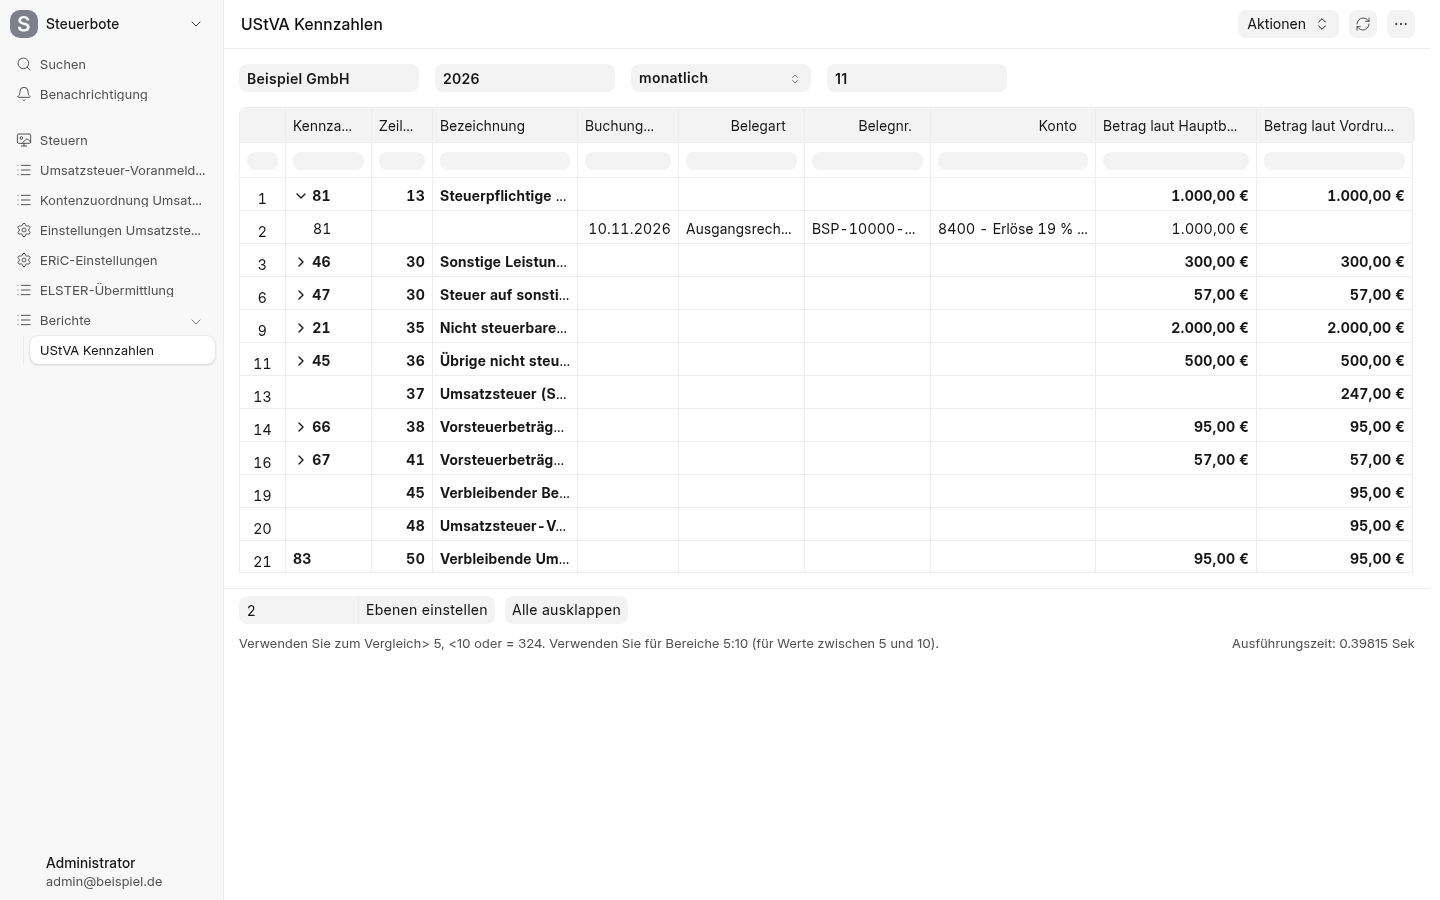
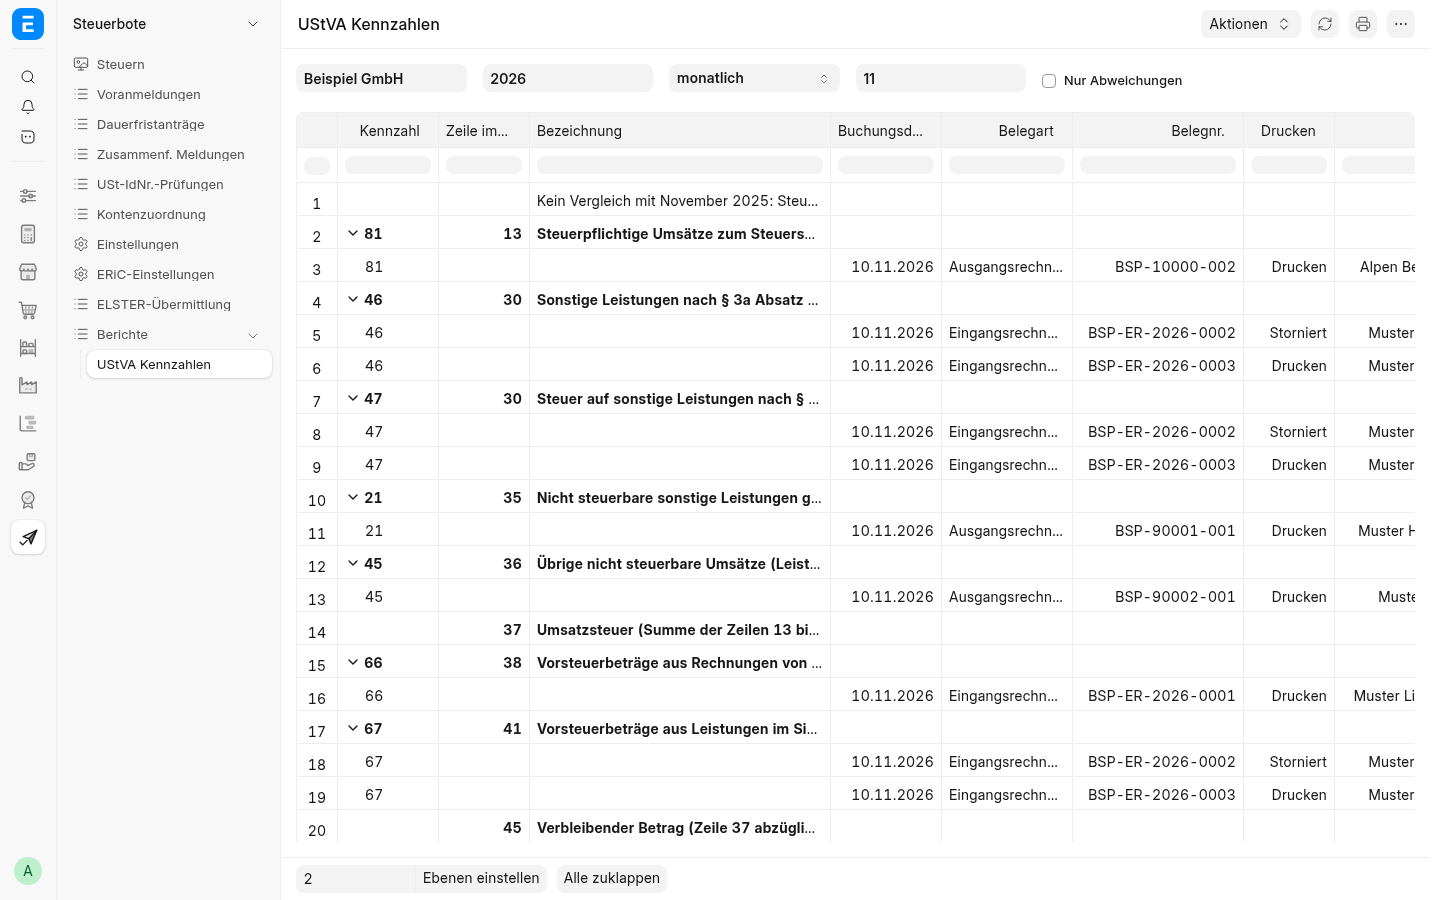
refresh the README screenshots for version 0.2.0 and show the stage 2 documents

diff --git a/README.md b/README.md
@@ -19,27 +19,37 @@ Steuermeldungen aus ERPNext an ELSTER. Zuerst die Umsatzsteuer-Voranmeldung, dan
 
 ## Einblick
 
-Die Bilder stammen aus einer Testumgebung. Firma, Anschrift, Steuernummern und Geschäftspartner sind Beispielwerte. Ein Klick auf ein Bild öffnet es in voller Größe.
+Die Bilder zeigen Steuerbote 0.2.0 in einer Testumgebung mit ERPNext 16. Firma, Anschrift, Steuernummern, USt-IdNrn., Belegnummern und Geschäftspartner sind Beispielwerte. Ein Klick auf ein Bild öffnet es in voller Größe.
 
 <table>
   <tr>
     <td align="center" valign="top">
-      <a href="docs/bilder/workspace-steuern.png"><img src="docs/bilder/workspace-steuern.png" width="280" alt="Arbeitsbereich Steuern mit offenen Voranmeldungen, Bericht und Einrichtung"></a><br>
+      <a href="docs/bilder/workspace-steuern.png"><img src="docs/bilder/workspace-steuern.png" width="280" alt="ERPNext mit „Steuern“ in der Leiste links und dem Arbeitsbereich Steuern mit Voranmeldungen, Dauerfristanträgen, Zusammenfassenden Meldungen, USt-IdNr.-Prüfungen und Einrichtung"></a><br>
       Arbeitsbereich Steuern
     </td>
     <td align="center" valign="top">
-      <a href="docs/bilder/bericht-kennzahlen.png"><img src="docs/bilder/bericht-kennzahlen.png" width="280" alt="Bericht UStVA Kennzahlen mit aufgeklappter Kennzahl 81 und dem Beleg dahinter"></a><br>
-      Bericht mit Drill-down
+      <a href="docs/bilder/voranmeldung.png"><img src="docs/bilder/voranmeldung.png" width="280" alt="Umsatzsteuer-Voranmeldung mit Hinweisen zu Rechnungen und Vorperiode und dem Vorperiodenvergleich der Kennzahlen"></a><br>
+      Voranmeldung mit Hinweisen und Vorperiodenvergleich
     </td>
   </tr>
   <tr>
     <td align="center" valign="top">
-      <a href="docs/bilder/voranmeldung.png"><img src="docs/bilder/voranmeldung.png" width="280" alt="Umsatzsteuer-Voranmeldung mit Kennzahlen, Summen und Verprobung"></a><br>
-      Voranmeldung mit Verprobung
+      <a href="docs/bilder/bericht-kennzahlen.png"><img src="docs/bilder/bericht-kennzahlen.png" width="280" alt="Bericht UStVA Kennzahlen mit den Belegen hinter jeder Kennzahl, eine stornierte Eingangsrechnung darunter"></a><br>
+      Bericht mit den Belegen je Kennzahl
     </td>
     <td align="center" valign="top">
-      <a href="docs/bilder/druckformat.png"><img src="docs/bilder/druckformat.png" width="200" alt="Druckformat der Umsatzsteuer-Voranmeldung nach dem Vordruck USt 1 A"></a><br>
-      Druckformat nach Vordruck USt 1 A
+      <a href="docs/bilder/zusammenfassende-meldung.png"><img src="docs/bilder/zusammenfassende-meldung.png" width="280" alt="Zusammenfassende Meldung mit Meldezeile, Summen und Befunden; die USt-IdNr. der Zeile ist laut Bestätigungsabfrage ungültig und hält die Meldung an"></a><br>
+      Zusammenfassende Meldung mit Befunden
+    </td>
+  </tr>
+  <tr>
+    <td align="center" valign="top">
+      <a href="docs/bilder/ust-idnr-bestaetigung.png"><img src="docs/bilder/ust-idnr-bestaetigung.png" width="280" alt="USt-IdNr.-Bestätigung mit angefragter und anfragender USt-IdNr., Dienst, Ergebnis und Zeitpunkt der Abfrage"></a><br>
+      USt-IdNr.-Bestätigung als Nachweis
+    </td>
+    <td align="center" valign="top">
+      <a href="docs/bilder/dauerfristverlaengerung.png"><img src="docs/bilder/dauerfristverlaengerung.png" width="280" alt="Dauerfristverlängerung für 2027; Berechnen meldet, dass keine Voranmeldung des Vorjahres abgegeben ist und die Grundlage von Hand einzutragen ist"></a><br>
+      Dauerfristverlängerung
     </td>
   </tr>
 </table>
